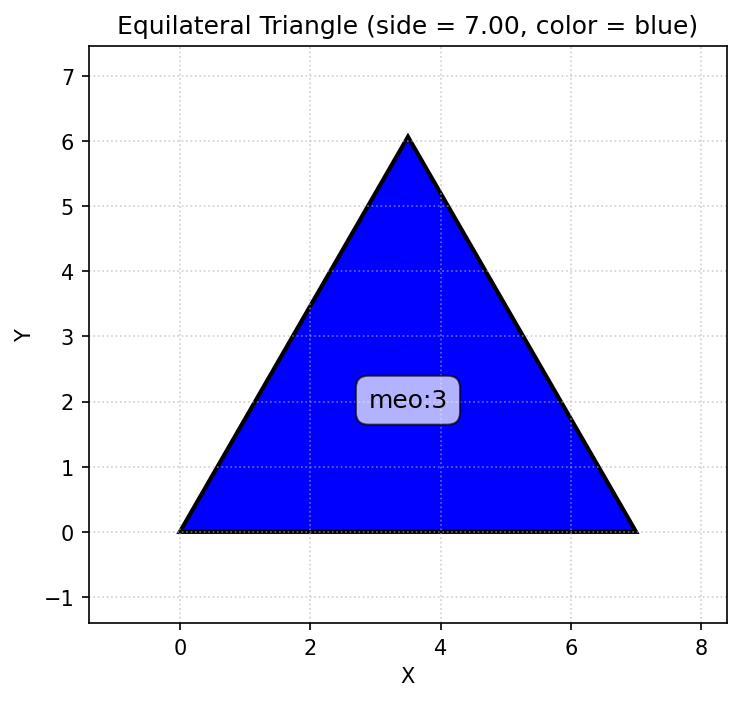
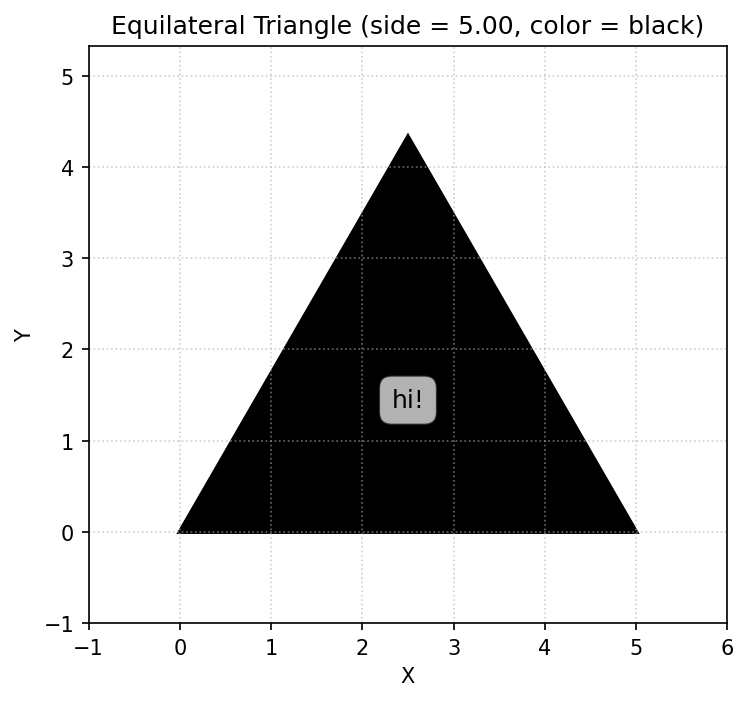
final LR4

diff --git a/IGI/LR4/task2/models.py b/IGI/LR4/task2/models.py
@@ -83,17 +83,6 @@ class TextAnalyzer:
         pattern = r'-?\d+(?:\.\d+)?\s*[+\-*/]\s*-?\d+(?:\.\d+)?'
         return re.findall(pattern, self.__text)
 
-    def find_words_with_digits_and_vowels(self) -> list:
-        """Words containing both digits and vowels"""
-        words = re.findall(r'[A-Za-zА-Яа-я0-9]+', self.__text)
-        result = []
-        for w in words:
-            has_digit = any(c.isdigit() for c in w)
-            has_vowel = any(c in self.VOWELS for c in w)
-            if has_digit and has_vowel:
-                result.append(w)
-        return result
-
     def odd_length_words(self) -> list:
         """Words with odd number of letters"""
         words = re.findall(r'[A-Za-zА-Яа-я]+', self.__text)
@@ -104,6 +93,17 @@ class TextAnalyzer:
         words = re.findall(r'[A-Za-zА-Яа-я]+', self.__text)
         i_words = [w for w in words if w.lower().startswith('i')]
         return min(i_words, key=len) if i_words else ""
+    
+    def find_words_with_digits_and_vowels(self) -> list:
+        """Words containing both digits and vowels"""
+        words = re.findall(r'[A-Za-zА-Яа-я0-9]+', self.__text)
+        result = []
+        for w in words:
+            has_digit = any(c.isdigit() for c in w)
+            has_vowel = any(c in self.VOWELS for c in w)
+            if has_digit and has_vowel:
+                result.append(w)
+        return result   
 
     def duplicate_words(self) -> list:
         """Duplicate words (case insensitive)"""

diff --git a/IGI/LR4/task6/task6_b.py b/IGI/LR4/task6/task6_b.py
@@ -66,7 +66,12 @@ class LoanDataAnalyzer:
         mean(ApplicantIncome where LoanAmount == max) /
         mean(ApplicantIncome where LoanAmount == min)
         Returns the ratio rounded to two decimal places.
+
+        во сколько раз средний доход (ApplicantIncome) заемщиков 
+            c максимальным размером кредита (LoanAmount = max) 
+            больше, чем y заемщиков c минимальным размером кредита. 
         """
+        
         # Find max and min LoanAmount
         max_loan = self.df['LoanAmount'].max()
         min_loan = self.df['LoanAmount'].min()

diff --git a/IGI/LR4/task1/mixins.py b/IGI/LR4/task1/mixins.py
@@ -13,7 +13,7 @@ import pickle
 class CSVMixin:
     """CSV saver - works with list of dicts"""
     
-    def save_to_csv(self, data: list, filename: str):
+    def save_to_csv(self, data, filename: str):
         """Save list of dicts to CSV"""
         if not data:
             return
@@ -37,7 +37,7 @@ class CSVMixin:
 class PickleMixin:
     """Pickle saver - works with list of dicts"""
     
-    def save_to_pickle(self, data: list, filename: str):
+    def save_to_pickle(self, data, filename: str):
         """Save list of dicts to Pickle"""
         with open(filename, 'wb') as f:
             pickle.dump(data, f)

diff --git a/IGI/LR4/task2/text_analayzer.py b/IGI/LR4/task2/text_analayzer.py
@@ -81,7 +81,7 @@ def task2():
     print(f"\nResults saved to {OUTPUT_FILE}")
 
     # Create zip archive
-    with zipfile.ZipFile(ZIP_FILE, 'w', zipfile.ZIP_DEFLATED) as zf:
+    with zipfile.ZipFile(ZIP_FILE, 'w', zipfile.ZIP_DEFLATED, compresslevel=2) as zf:
         zf.write(OUTPUT_FILE, arcname="output.txt")
 
     # Show archive info

diff --git a/IGI/LR4/task1/models.py b/IGI/LR4/task1/models.py
@@ -87,8 +87,6 @@ class Person:
         birth_date = cls.input_birth_date()
         return cls(surname, name, second_name, birth_date)
     
-
-    
     def get_full_name(self) -> str:
         """Return full name with initials"""
         name_init = self.name[0] if self.name else ""
